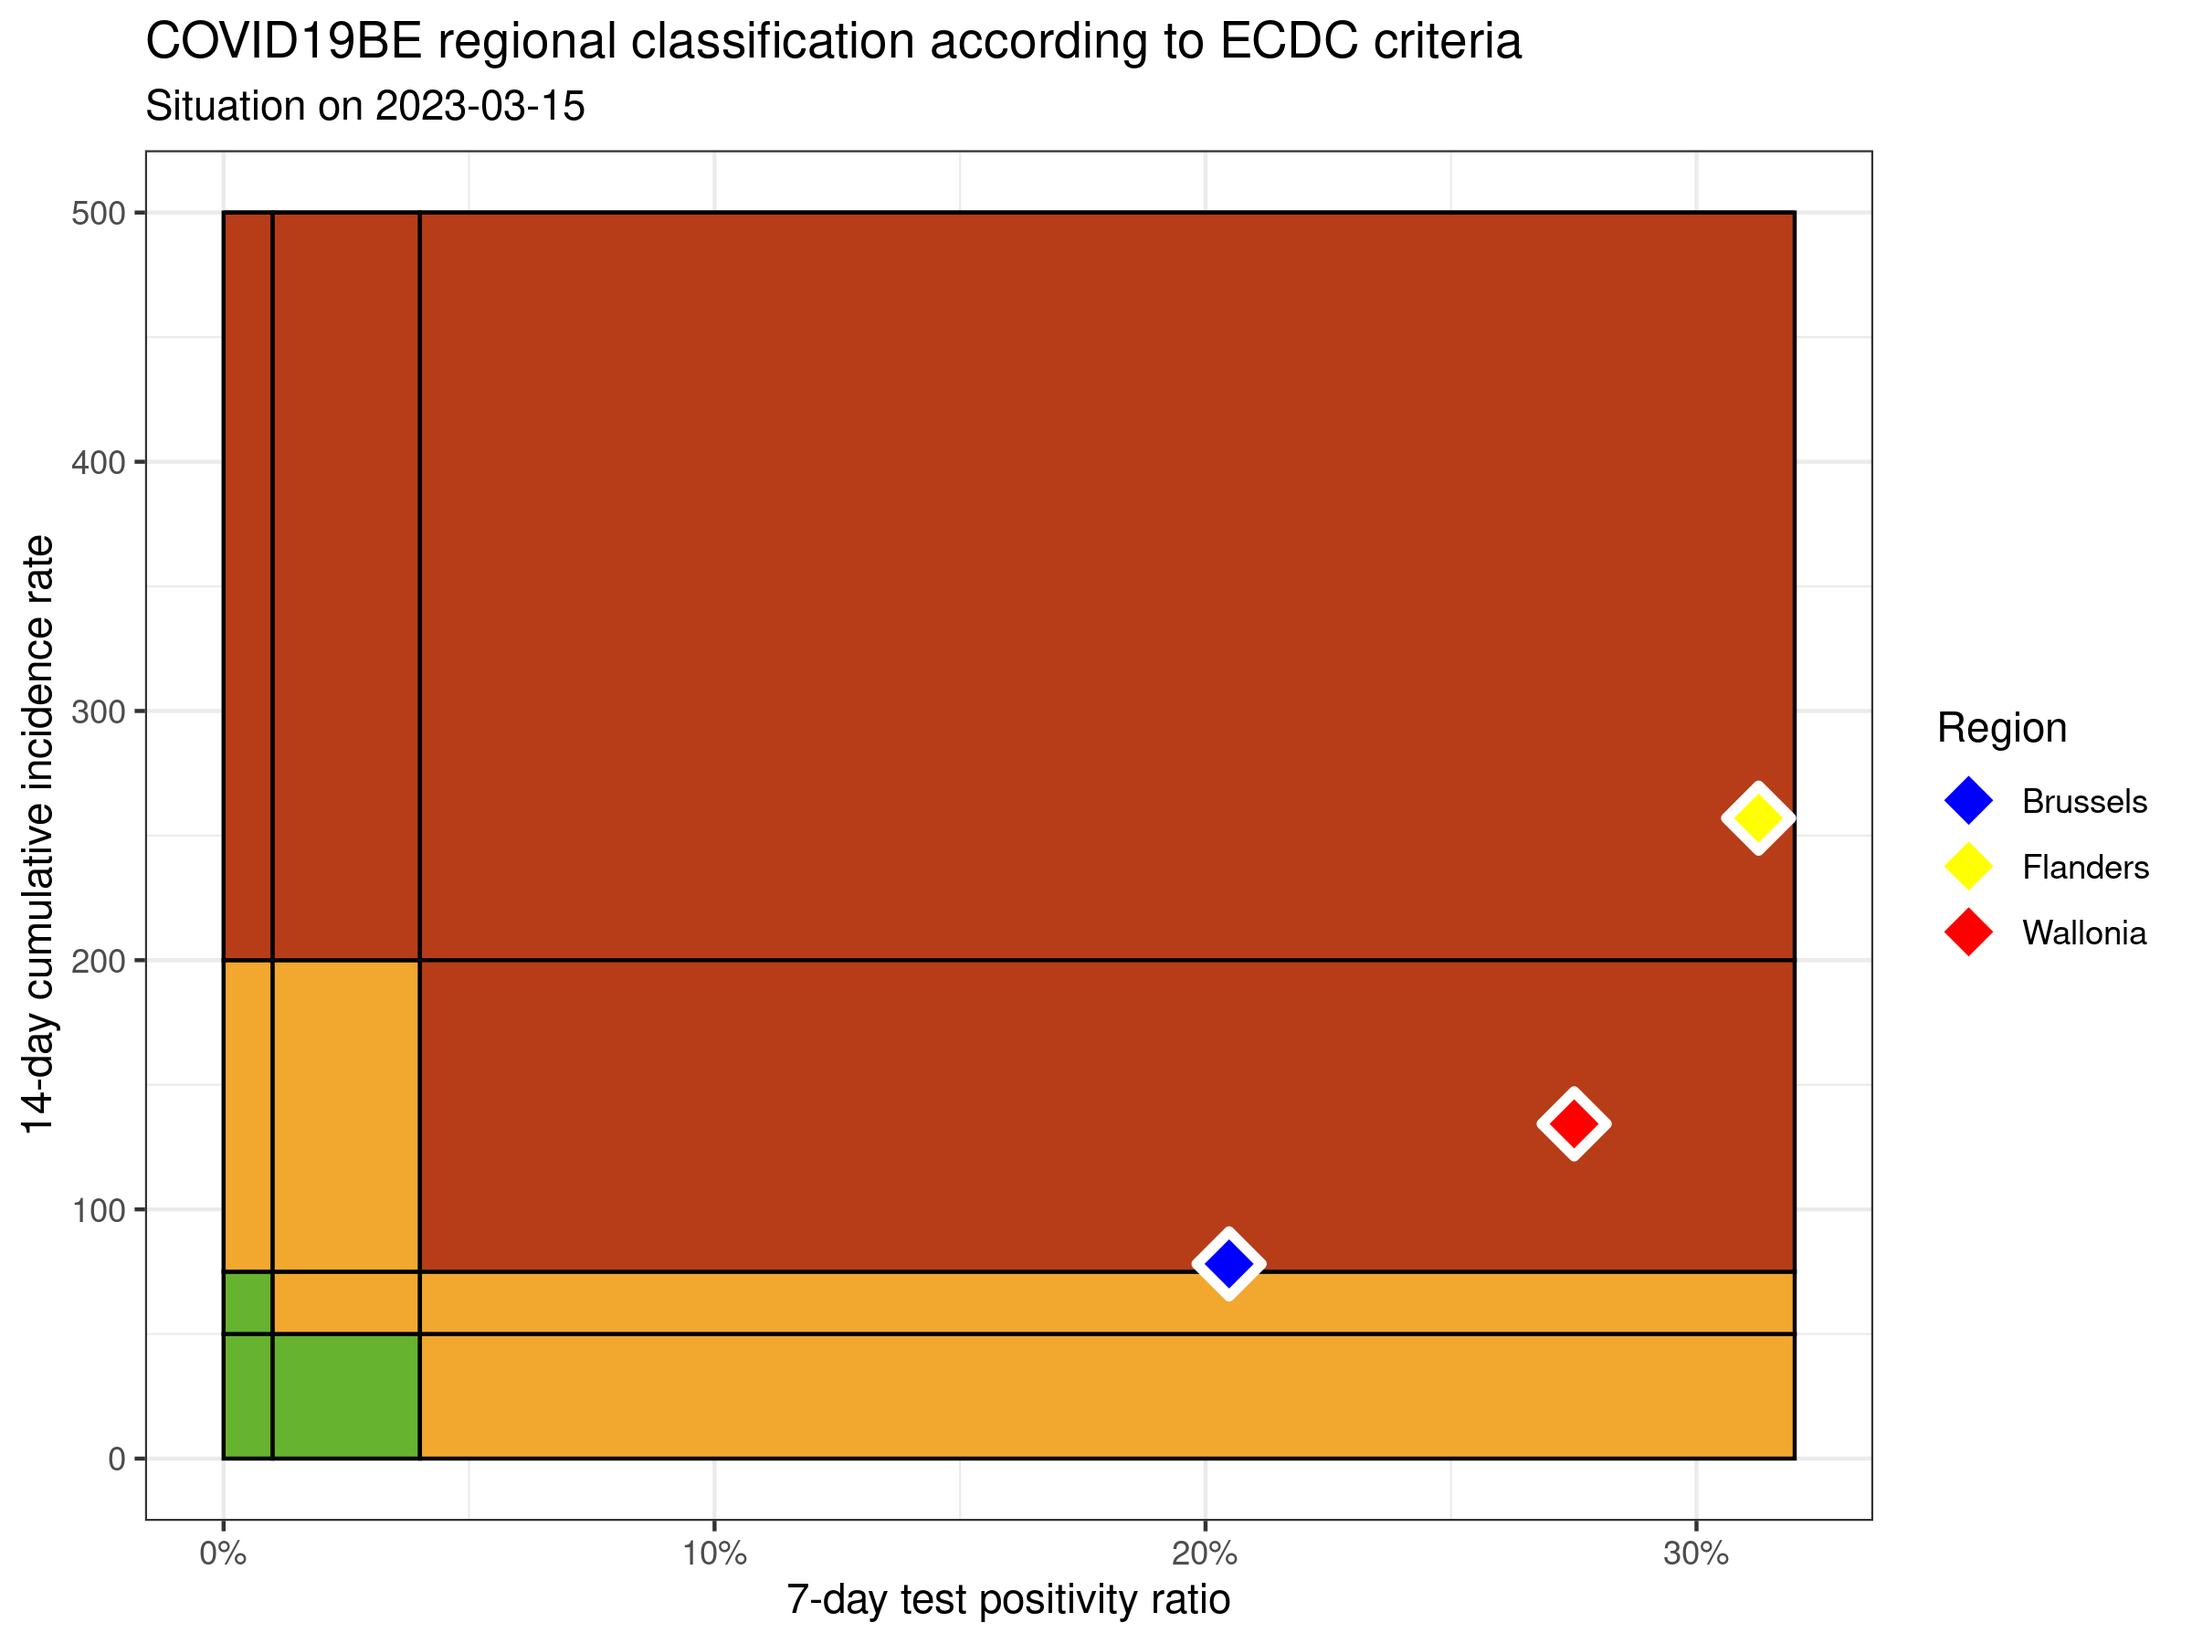
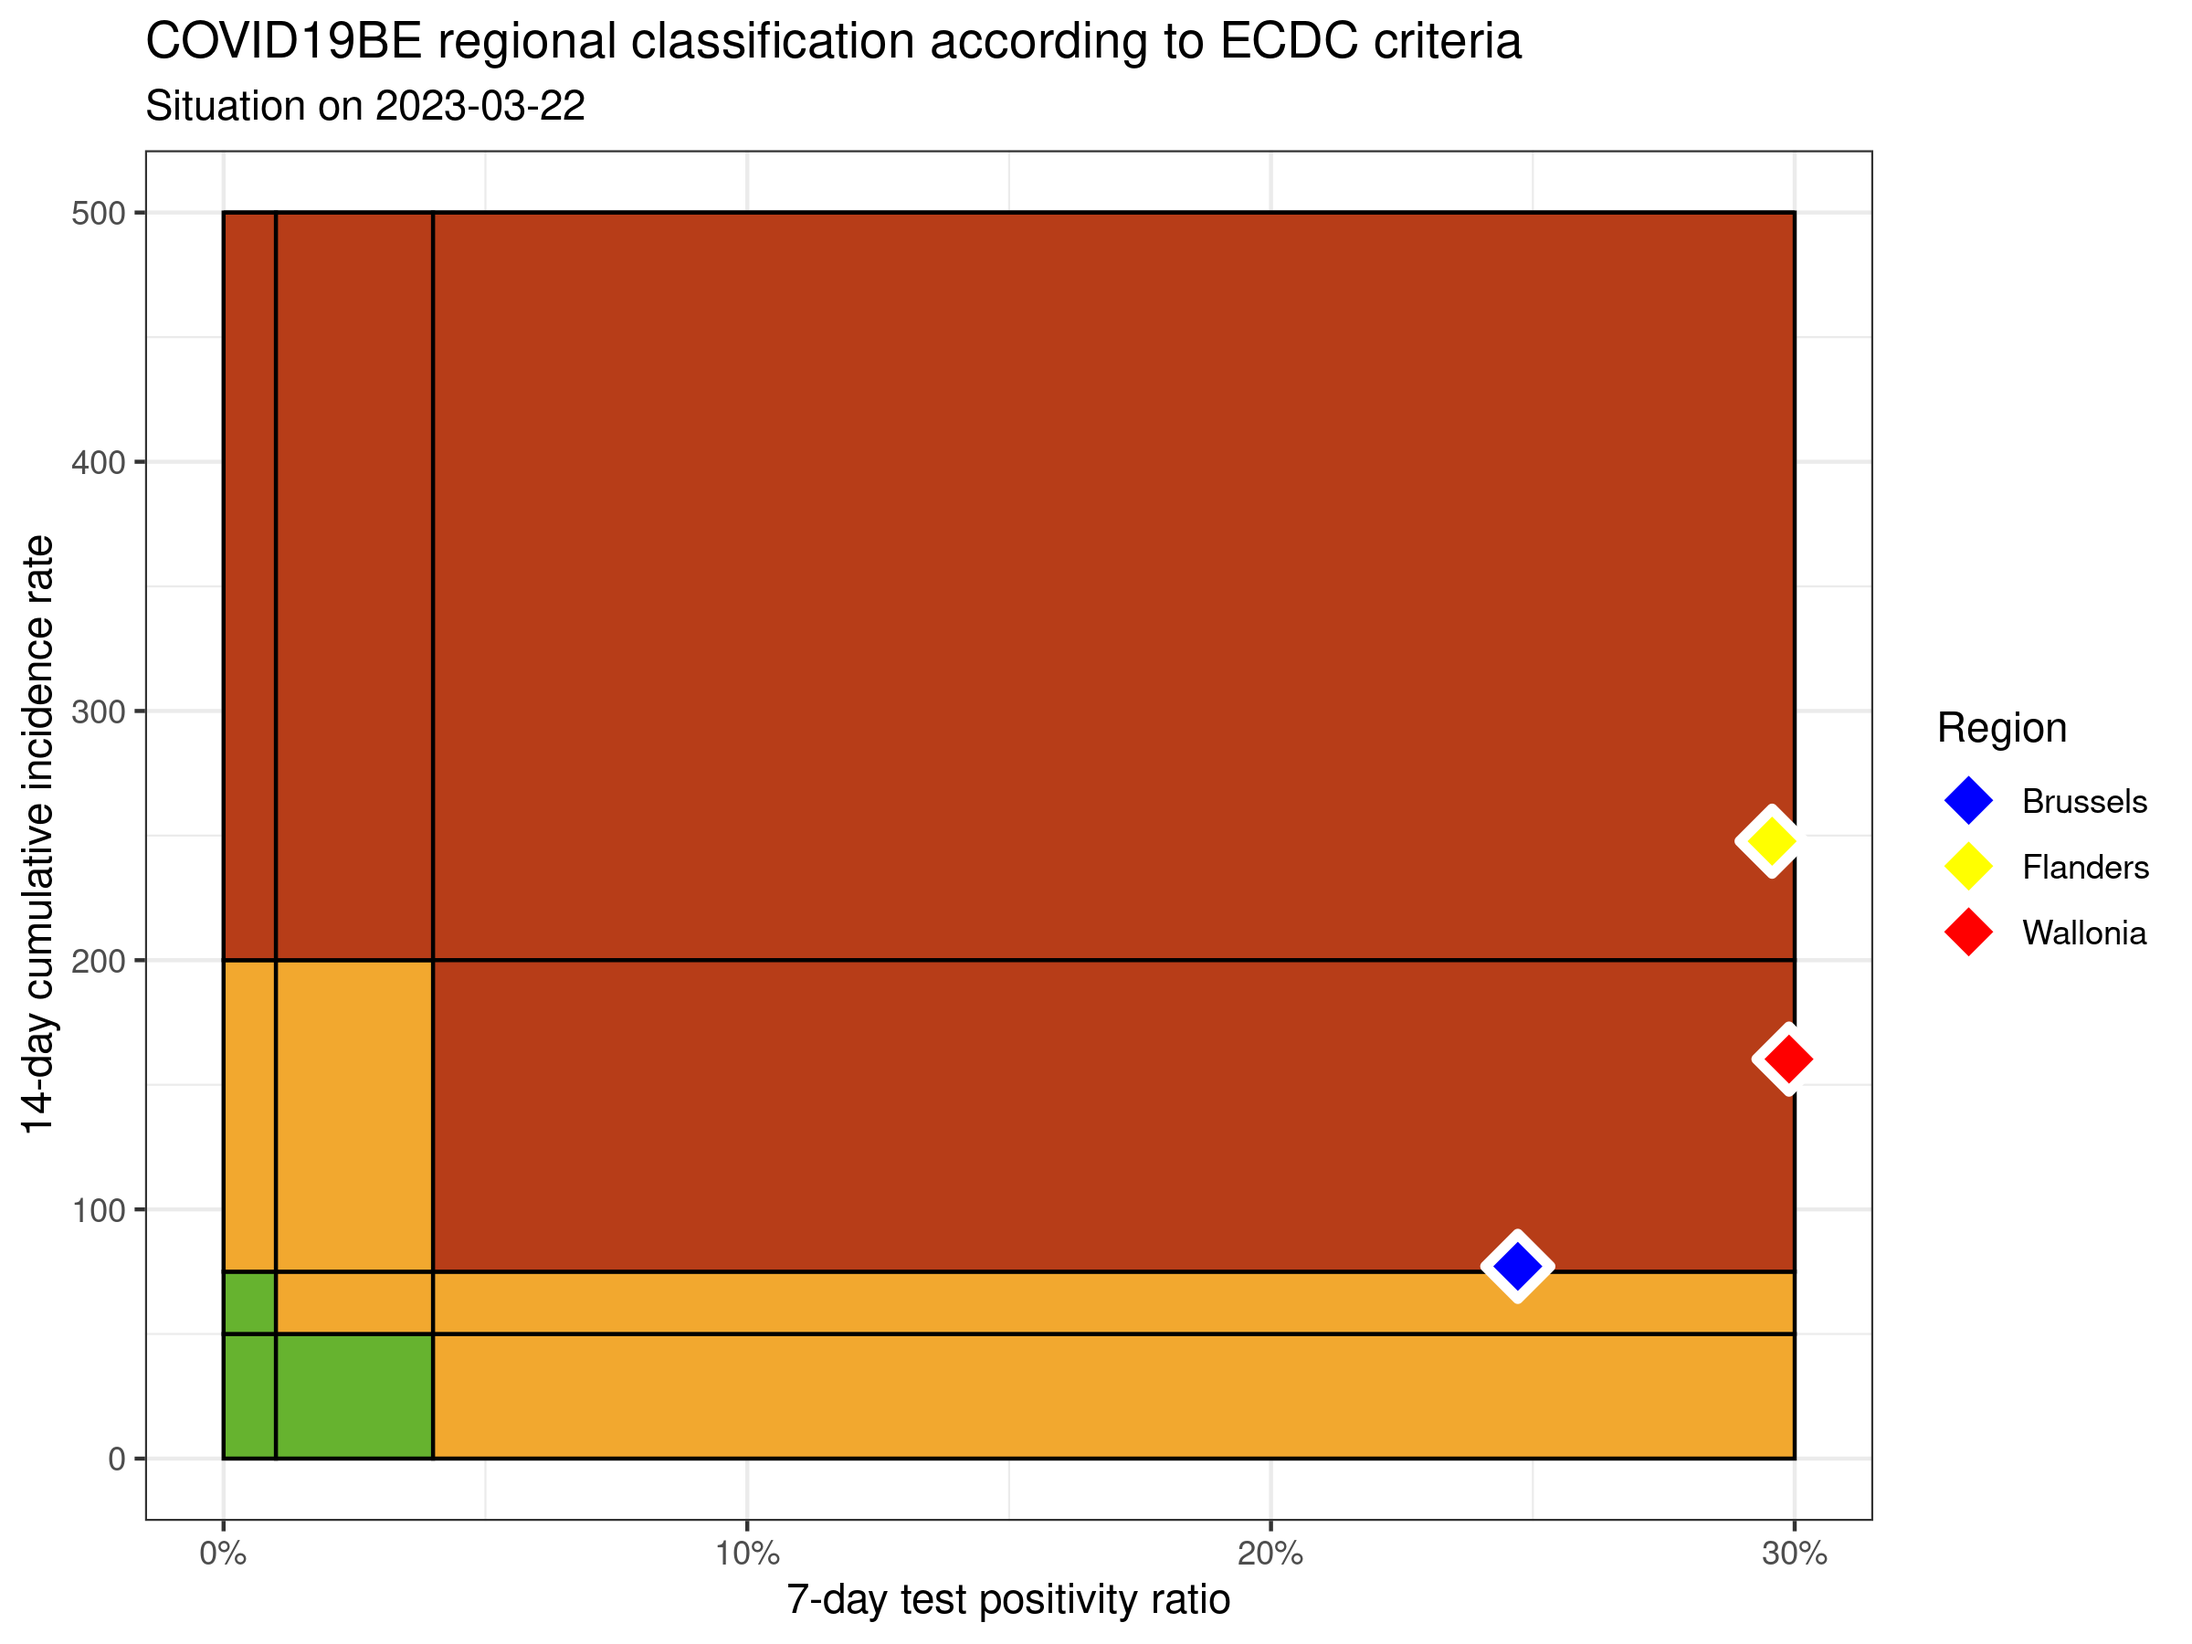
update situation

diff --git a/ecdc-trend/README.md b/ecdc-trend/README.md
@@ -9,11 +9,11 @@
 
 ![](COVID9BE-ecdc-trend.png)
 
-|          | INC14 | INC7 |  TST7 | TST\_POS7 | REGION   |     POP | INC14\_RT |       PR7 |        GR |
-| :------- | ----: | ---: | ----: | --------: | :------- | ------: | --------: | --------: | --------: |
-| Brussels |   953 |  491 |  2832 |       580 | Brussels | 1219970 |  78.11668 | 0.2048023 | 0.0627706 |
-| Flanders | 17097 | 8899 | 31204 |      9756 | Flanders | 6653062 | 256.97942 | 0.3126522 | 0.0855087 |
-| Wallonia |  4900 | 2760 | 10695 |      2942 | Wallonia | 3648206 | 134.31259 | 0.2750818 | 0.2897196 |
+|          | INC14 | INC7 |  TST7 | TST\_POS7 | REGION   |     POP | INC14\_RT |       PR7 |          GR |
+| :------- | ----: | ---: | ----: | --------: | :------- | ------: | --------: | --------: | ----------: |
+| Brussels |   941 |  450 |  2003 |       495 | Brussels | 1219970 |  77.13304 | 0.2471293 | \-0.0835031 |
+| Flanders | 16482 | 7577 | 28537 |      8438 | Flanders | 6653062 | 247.73555 | 0.2956863 | \-0.1491297 |
+| Wallonia |  5848 | 3087 | 11147 |      3332 | Wallonia | 3648206 | 160.29797 | 0.2989145 |   0.1180732 |
 
 ### Read more
 
